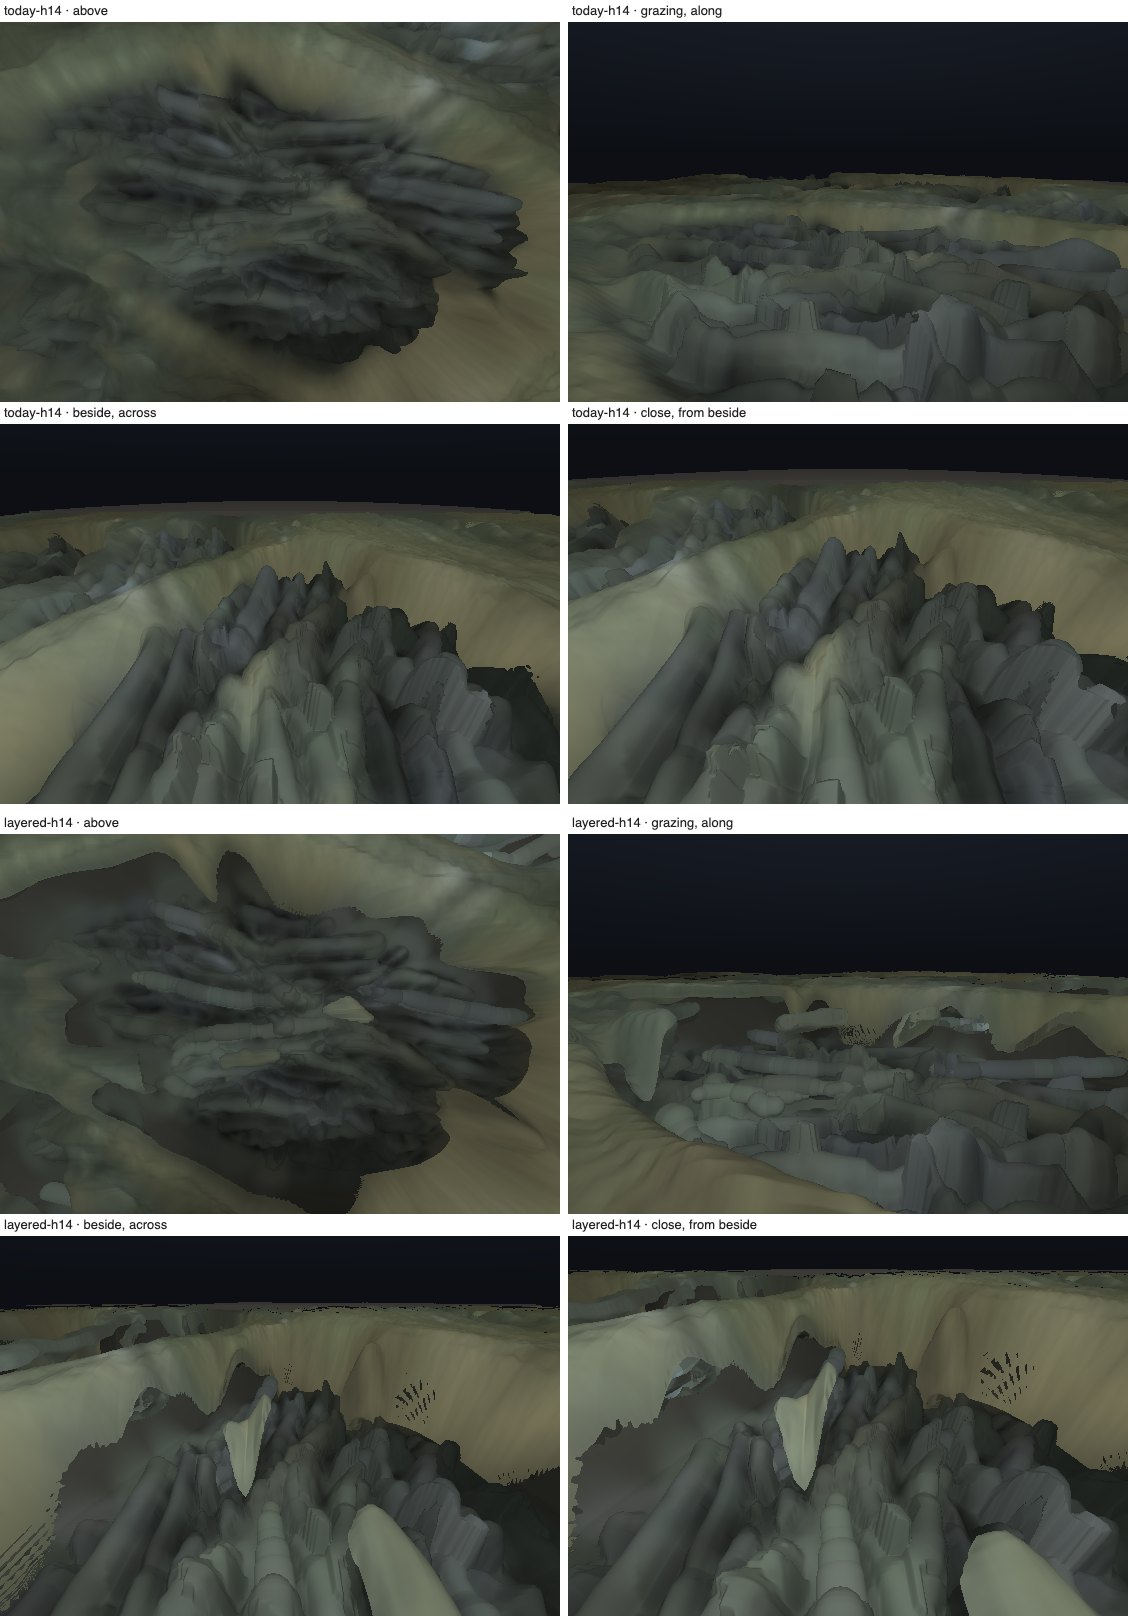
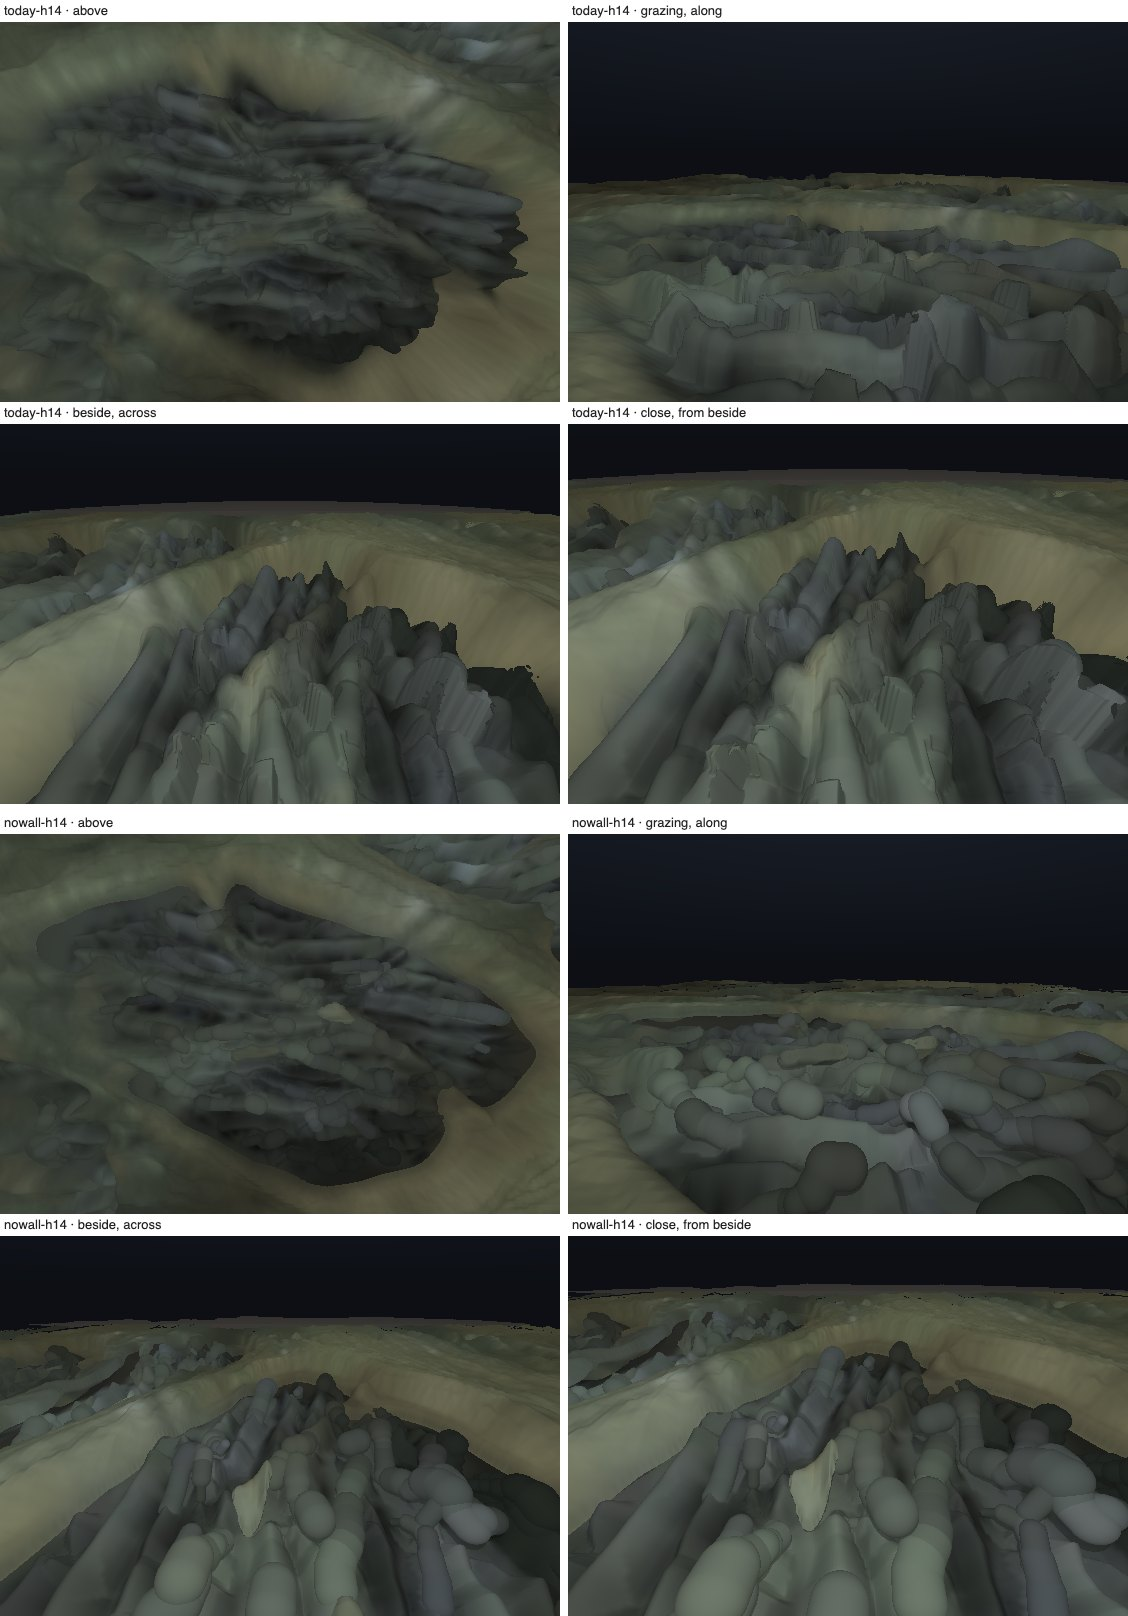
iris-engine: no vertical walls in the layered stroma — lifted runs float, the base drapes over resting strands; light elevation default 82° (study/11 §5.4)
iori: the weave's own heights model the upper layers (they meet and merge); why are there
still vertical walls — every weave-lifted strand was a mesa on the one height field.

diff --git a/iris-engine/tissue.js b/iris-engine/tissue.js
@@ -78,7 +78,7 @@
         in vec2 v_c;
         uniform sampler2D u_fibA, u_fibB, u_veinA, u_veinB, u_guideA, u_guideB, u_sfA, u_sfB, u_svA, u_svB, u_flA, u_flB, u_outB, u_cellS, u_cellG, u_pack;   // §5.2.3: fill and the rim strength ride in u_pack (.b, .a) — compose is at the sampler limit — and the FLOATING pass (u_flA / u_flB) takes their units
         uniform vec4 u_rect; uniform vec2 u_size; uniform vec3 u_rimRGB; uniform float u_grey;
-        uniform float u_wall, u_rimW, u_rimOff, u_pit0, u_pit1, u_depth, u_deckZ, u_deckH, u_fibRK, u_delight, u_wallZ, u_sheetZ, u_srelAmt, u_fibNoise, u_slabOn, u_layered, u_ablMm, u_under0, u_under1, u_lipMm, u_edgeMix;
+        uniform float u_wall, u_rimW, u_rimOff, u_pit0, u_pit1, u_depth, u_deckZ, u_deckH, u_fibRK, u_delight, u_wallZ, u_sheetZ, u_srelAmt, u_fibNoise, u_slabOn, u_layered, u_ablMm, u_under0, u_under1, u_lipMm, u_edgeMix, u_drape, u_dipMm;
         layout(location = 0) out vec4 o_alb; layout(location = 1) out vec4 o_aux; layout(location = 2) out vec4 o_slab; layout(location = 3) out vec4 o_slabAlb;
         const vec3 LUMA = vec3(0.2126, 0.7152, 0.0722);
         float sstep(float a, float b, float x) { float t = clamp((x - a) / (b - a), 0.0, 1.0); return t * t * (3.0 - 2.0 * t); }
@@ -200,10 +200,17 @@
                 float sh = cover > 0.5 ? 1.0 : 0.0;
                 // the lip: a half-round edge of the shell's own thickness — full within half a thickness of the edge, then round
                 // (both corners rounded by u_lipMm; between them the edge is a face, seen edge-on from the front)
+                // the shell's top: the sheet's relief stand-in (the legacy height) without its deep pits — the old model's own crypts,
+                // which a shell would follow straight down: below −u_dipMm the dip is compressed smoothly towards −2 u_dipMm
+                float sheetL = sheetH > -u_dipMm ? sheetH : -u_dipMm - u_dipMm * (1.0 - exp((sheetH + u_dipMm) / u_dipMm));
                 float rl = min(u_lipMm, 0.5 * u_ablMm), lx = clamp(-sd, 0.0, rl), hr = sqrt(max(0.0, rl * rl - (rl - lx) * (rl - lx)));
-                float ablTop = sheetH - rl + hr, ablBot = sheetH - u_ablMm + rl - hr;
+                float ablTop = sheetL - rl + hr, ablBot = sheetL - u_ablMm + rl - hr;
                 float rise = sstep(u_under0, u_under0 + u_under1, -sd);
-                float baseZ = mix(-u_depth - u_deckH + zDeck, ablBot - 0.006, rise);
+                // the base DRAPES over the strands resting in it (the deep stroma is a mesh, a resting strand is embedded in it): a
+                // cosine bell of the strand's top height over u_drape radii, not a cylinder standing on the floor with a vertical flank
+                float dr = u_drape * max(rr, 1e-4), bell = fB.r < dr ? 0.5 + 0.5 * cos(3.14159265 * fB.r / dr) : 0.0;
+                float zRest = (texture(u_fibA, c).a + rr) * bell * u_deckZ * prof;
+                float baseZ = mix(-u_depth - u_deckH + zRest, ablBot - 0.006, rise);
                 // .r what the FRONT view marches: the base with the floating strands' tops on it (seen from above a strand hides what
                 // is under it; the photo shader has no traced strands yet — L2); .g the base alone, for the probe, which traces them
                 float fTop = fbase + (flA.a + fdome) * u_deckZ;
@@ -599,7 +606,7 @@
     T.slabClearMm = 0.02; T.slabMeasured = false; T.slabCurves = 0;
     // §5.4 L0 the layered stroma (off: the shipped model): the ABL shell's thickness, and the undercut — how far under the shell
     // the base stays down past a crypt's edge, then over how far it rises to meet the shell
-    T.layered = false; T.ablMm = 0.04; T.underMm = [0.06, 0.10]; T.lipMm = 0.02; T.edgeMix = 0;
+    T.layered = false; T.restMm = 0.004; T.ablMm = 0.04; T.underMm = [0.06, 0.10]; T.lipMm = 0.02; T.edgeMix = 0; T.drape = 1.8; T.dipMm = 0.03;
     T.delight = 1;                                // 1 = the geometry's own cross-fibre shading · 0 = the painted one
     // How much of the old model's sheet relief to keep. The layer model carries no furrows and no micro-relief, so
     // writing 0 on the sheet left 75.6 % of the iris at exactly 0.000 µm — a flat table, where the legacy atlas has
@@ -660,7 +667,25 @@
         const floats = c => { if (!slabOn || !c.z || !c.w) return false;
             if (c.bridge) return c.z.some((z, i) => z - rKf * c.w[i] > clear);   // a measured BRIDGE (the fitter's separator rule): it floats wherever its span is lifted
             if (c.inst === undefined && !T.slabMeasured && !(T.layered && c.layered)) return false; const q = c.z.map((z, i) => z - rKf * c.w[i]).sort((a, b) => a - b); return q[q.length >> 1] > clear; };
-        const part = { fibres: [], floating: [] }; for (const c of T.sets.fibres) part[floats(c) ? 'floating' : 'fibres'].push(c);
+        const part = { fibres: [], floating: [] };
+        if (T.layered && slabOn) {
+            // §5.4 (iori, 2026-09-27: "the height we already use" models the upper layers — they meet and merge): no strand is a mesa.
+            // Every RUN of a strand that leaves the base (its bottom more than T.restMm above the floor) is a floating tube, one
+            // sample either side so it comes down onto the base; only the runs that rest displace the base. A lifted tube on a
+            // height field is a wall down to the floor — that was every vertical wall in a crypt.
+            const eps = T.restMm, keys = ['uv', 'xy', 'w', 'z', 'zc', 'rgb', 'r'];
+            const piece = (c, i0, i1, extra) => { const q = Object.assign({}, c, extra || {}); for (const k of keys) if (c[k]) q[k] = c[k].slice(i0, i1 + 1); return q; };
+            for (const c of T.sets.fibres) {
+                if (!c.z || !c.w) { part.fibres.push(c); continue; }
+                const up = c.z.map((z, i) => z - rKf * c.w[i] > eps), n = up.length;
+                if (!up.some(Boolean)) { part.fibres.push(c); continue; }
+                if (up.every(Boolean)) { part.floating.push(c); continue; }
+                for (let i = 0; i < n;) { let j = i; while (j + 1 < n && up[j + 1] === up[i]) j++;
+                    if (up[i]) part.floating.push(piece(c, Math.max(0, i - 1), Math.min(n - 1, j + 1), { runOf: c }));
+                    else if (j > i) part.fibres.push(piece(c, i, j, { runOf: c }));
+                    i = j + 1; }
+            }
+        } else for (const c of T.sets.fibres) part[floats(c) ? 'floating' : 'fibres'].push(c);
         T.slabCurves = part.floating.length;
         // §5.2.5 B1: a floating strand with a braid spec (its own, or T.braid) is drawn as its children; the set keeps the tube
         T.floatCurves = part.floating;          // §5.4 L0: the floating strands, for the probe's traced segments (after the braid below)
@@ -677,7 +702,7 @@
             gl.drawBuffers([gl.COLOR_ATTACHMENT0, gl.COLOR_ATTACHMENT1]);
             gl.clearBufferfv(gl.COLOR, 0, [0, 0, 0, 0]); gl.clearBufferfv(gl.COLOR, 1, [R, 0, -1, 0]); gl.clearBufferfv(gl.DEPTH, 0, [1]);
             const g = buildSet(part[k] || T.sets[k], valueOf, closed, R); gl.uniform1f(pr.curve.loc('u_R'), R); T.segs = (T.segs || 0) + g.count / 6;
-            gl.uniform1f(pr.curve.loc('u_top'), k === 'floating' ? 1 : 0); gl.uniform1f(pr.curve.loc('u_rK'), rKf);
+            gl.uniform1f(pr.curve.loc('u_top'), k === 'floating' || (k === 'fibres' && T.layered && slabOn) ? 1 : 0);   // §5.4: in the layered base, too, the higher strand wins (no seam between neighbours) gl.uniform1f(pr.curve.loc('u_rK'), rKf);
             gl.bindVertexArray(g.vao); gl.drawArrays(gl.TRIANGLES, 0, g.count);
             if (k === 'floating' && g.count) {   // §5.2.5: the slab's BOTTOM is the lowest of every tube over the texel (a braid's lower children), not the top one's
                 gl.disable(gl.DEPTH_TEST); gl.drawBuffers([gl.NONE, gl.COLOR_ATTACHMENT1]); gl.colorMask(false, false, true, false);
@@ -747,7 +772,7 @@
         gl.uniform1f(c.loc('u_delight'), T.delight === undefined ? 0 : T.delight);
         gl.uniform1f(c.loc('u_wallZ'), T.wallZ === undefined ? 2.5 * mm.wall : T.wallZ);
         gl.uniform1f(c.loc('u_sheetZ'), T.sheetZ === undefined ? 0.5 : T.sheetZ);
-        gl.uniform1f(c.loc('u_layered'), T.layered ? 1 : 0); gl.uniform1f(c.loc('u_ablMm'), T.ablMm); gl.uniform1f(c.loc('u_under0'), T.underMm[0]); gl.uniform1f(c.loc('u_under1'), T.underMm[1]); gl.uniform1f(c.loc('u_lipMm'), T.lipMm); gl.uniform1f(c.loc('u_edgeMix'), T.edgeMix);   // §5.4 L0
+        gl.uniform1f(c.loc('u_layered'), T.layered ? 1 : 0); gl.uniform1f(c.loc('u_ablMm'), T.ablMm); gl.uniform1f(c.loc('u_under0'), T.underMm[0]); gl.uniform1f(c.loc('u_under1'), T.underMm[1]); gl.uniform1f(c.loc('u_lipMm'), T.lipMm); gl.uniform1f(c.loc('u_edgeMix'), T.edgeMix); gl.uniform1f(c.loc('u_drape'), T.drape); gl.uniform1f(c.loc('u_dipMm'), T.dipMm);   // §5.4 L0
         gl.uniform1f(c.loc('u_srelAmt'), (T.srel && !grey) ? (T.srelAmt === undefined ? 1 : T.srelAmt) : 0);
         gl.uniform1f(c.loc('u_fibNoise'), grey ? 0 : (T.fibNoise || 0));      // §5.2.2 the per-texel term; never in a calibration render
         // the engine's fullscreen quad lives on attribute 0 of the default vertex array

diff --git a/iris-engine/index.html b/iris-engine/index.html
@@ -517,7 +517,7 @@
                 </div>
                 <div class="slider-row">
                     <span class="lbl" style="color:var(--amber)">ELEV</span>
-                    <input type="range" id="param-elev" min="0.1" max="1.4" step="0.01">
+                    <input type="range" id="param-elev" min="0.1" max="1.57" step="0.01">
                     <span class="val" id="val-elev" style="color:var(--amber)"></span>
                 </div>
 
@@ -2815,7 +2815,7 @@
         const state = {
             relief: 1.0, lightAngle: 1.0,
             // mm / rad
-            pupil: 4.0, pupilOff: [0.25, 0.15], limb: [5.85, 5.40, 0], lightElev: 0.6, zoomPhoto: 110.0, debug: 0, refract: 1, specular: 0, atlasView: false,   // specular 0: the cornea does not mirror the scene light unless asked (iori, 2026-09-20)
+            pupil: 4.0, pupilOff: [0.25, 0.15], limb: [5.85, 5.40, 0], lightElev: 1.4312, zoomPhoto: 110.0, debug: 0, refract: 1, specular: 0, atlasView: false,   // specular 0: the cornea does not mirror the scene light unless asked (iori, 2026-09-20)
             seed: 42, warp: 0.03, collr: 0.33, crypt: 0.5, furrow: 0.8, pigment: 0.3, stroma: 0.24,
             pheo: 0.5, mie: 0.2, ring: 0.0, ringR: 0.4, yellow: 0.3,
             srcType: 1, srcSize: 0.18, ambient: 0.35, lid: 5.0, hippus: false,

diff --git a/iris-engine/study/11-plan-every-eye-a-layer-model.md b/iris-engine/study/11-plan-every-eye-a-layer-model.md
@@ -838,6 +838,23 @@ texture on the first probe after a bake).
   (143 float) and the probe then shows strands crossing the crypt at different heights over the base.
 - **The undercut makes iori's bridge by itself**: on hole 8 the yellow band between the two lobes spans one valley
   (`study/proof-layers/layered-26-h8-probe.jpg`, the grazing view) — no detector involved.
+- **iori (2026-09-27, after L0): "the height of each layer can vary as they often meet and merge, so we can use the height we
+  already use to model the upper layers, bridges and such"** — the crypt depth stays (no deeper floor); the weave's own heights
+  ARE the upper layers. **And: "why are there still walls that are completely vertical?"** Measured on true-scale sections
+  (`layered-26-h14-section.png`) and on 120 profile columns through five crypts, three sources: (1) every weave-lifted strand
+  drawn on the one height field is a MESA — its top, then straight down to the floor beyond one radius (117 steep runs over
+  45 µm, 26 over 70, the tallest 109 µm = the whole crypt, in today's model); (2) the shell's top followed the legacy height's
+  own pits straight down (to −170 µm on hole 14); (3) a strand resting on the floor was a whole cylinder (a vertical flank)
+  and neighbours met at a seam (the nearest centreline won). Fixed in the layered mode: every RUN of a strand whose bottom
+  leaves the base by more than `T.restMm` (4 µm) is a floating tube (one sample either side so it lands on the base), only
+  the resting runs displace the base; the base DRAPES over a resting strand (a cosine bell over `T.drape` 1.8 radii); the
+  higher strand wins in the base as in the float pass; the shell's dip below `T.dipMm` (30 µm) is compressed smoothly.
+  After: 3 steep runs over 45 µm, none over 70, the tallest 47 µm (a thick strand's draped flank, ≈ 60°); the shell's top none
+  over 30 µm. Front view, review path: **MATCH2 84.51 · strandCorr 0.384 · cellΔab 2.31 · hcorr 0.744** (today 84.77 · 0.410
+  · 2.52 · 0.715): the best colour and height agreement yet, strandCorr still below. The front view still marches the floating
+  strands' tops as a height field (aux .r) — their mesas are there until L2 traces them in the photo shader.
+- iori: the light elevation default is **82°** (it was 0.6 rad = 34°; the slider stopped at 80°, below the start eyes' own
+  81.9°, so touching it lowered the light). Default 1.4312 rad, the slider to 90°. The eyes' own cases set their light as before.
 - Open: a band of the shell narrower than about twice its thickness draws as a WAFER (a pale blade seen edge-on, hole 14,
   `layered-26-h14-probe.jpg`) where it should be a round strand — the bridge-as-strand rule belongs in L1; faint stepping
   patterns on the shell's faces at grazing angles; the lifted strands are round tubes with the base's colour chain, their
